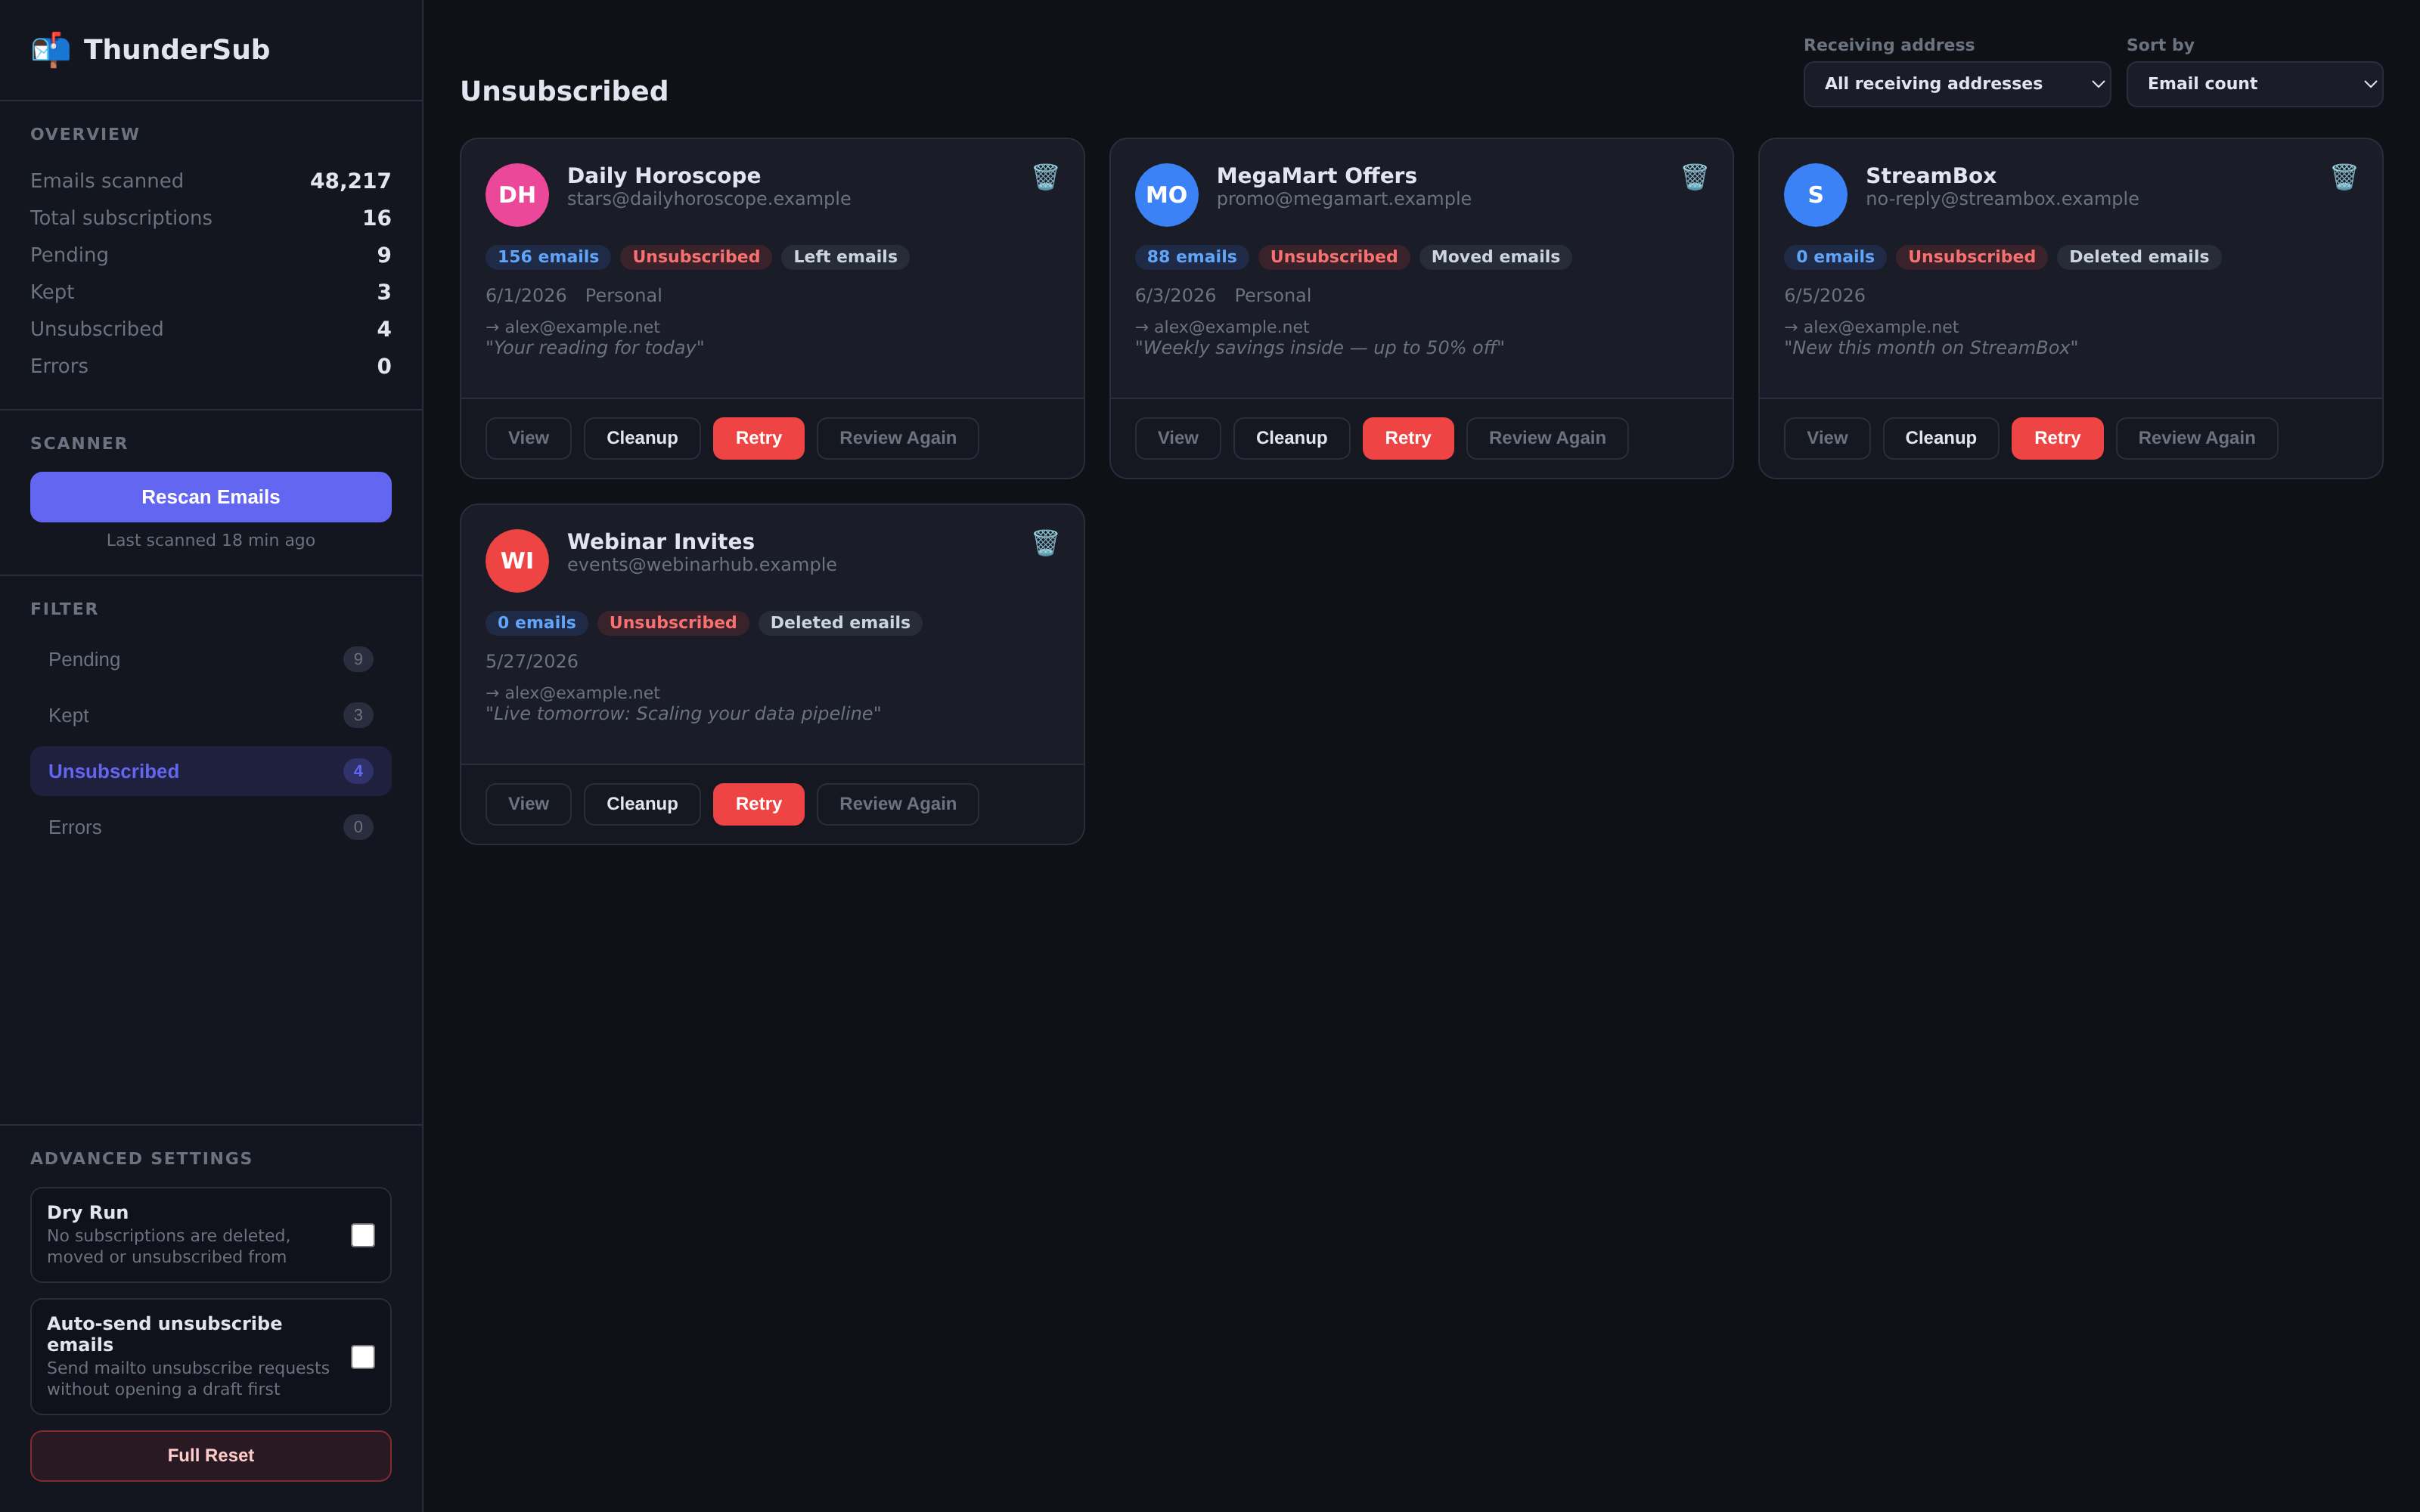
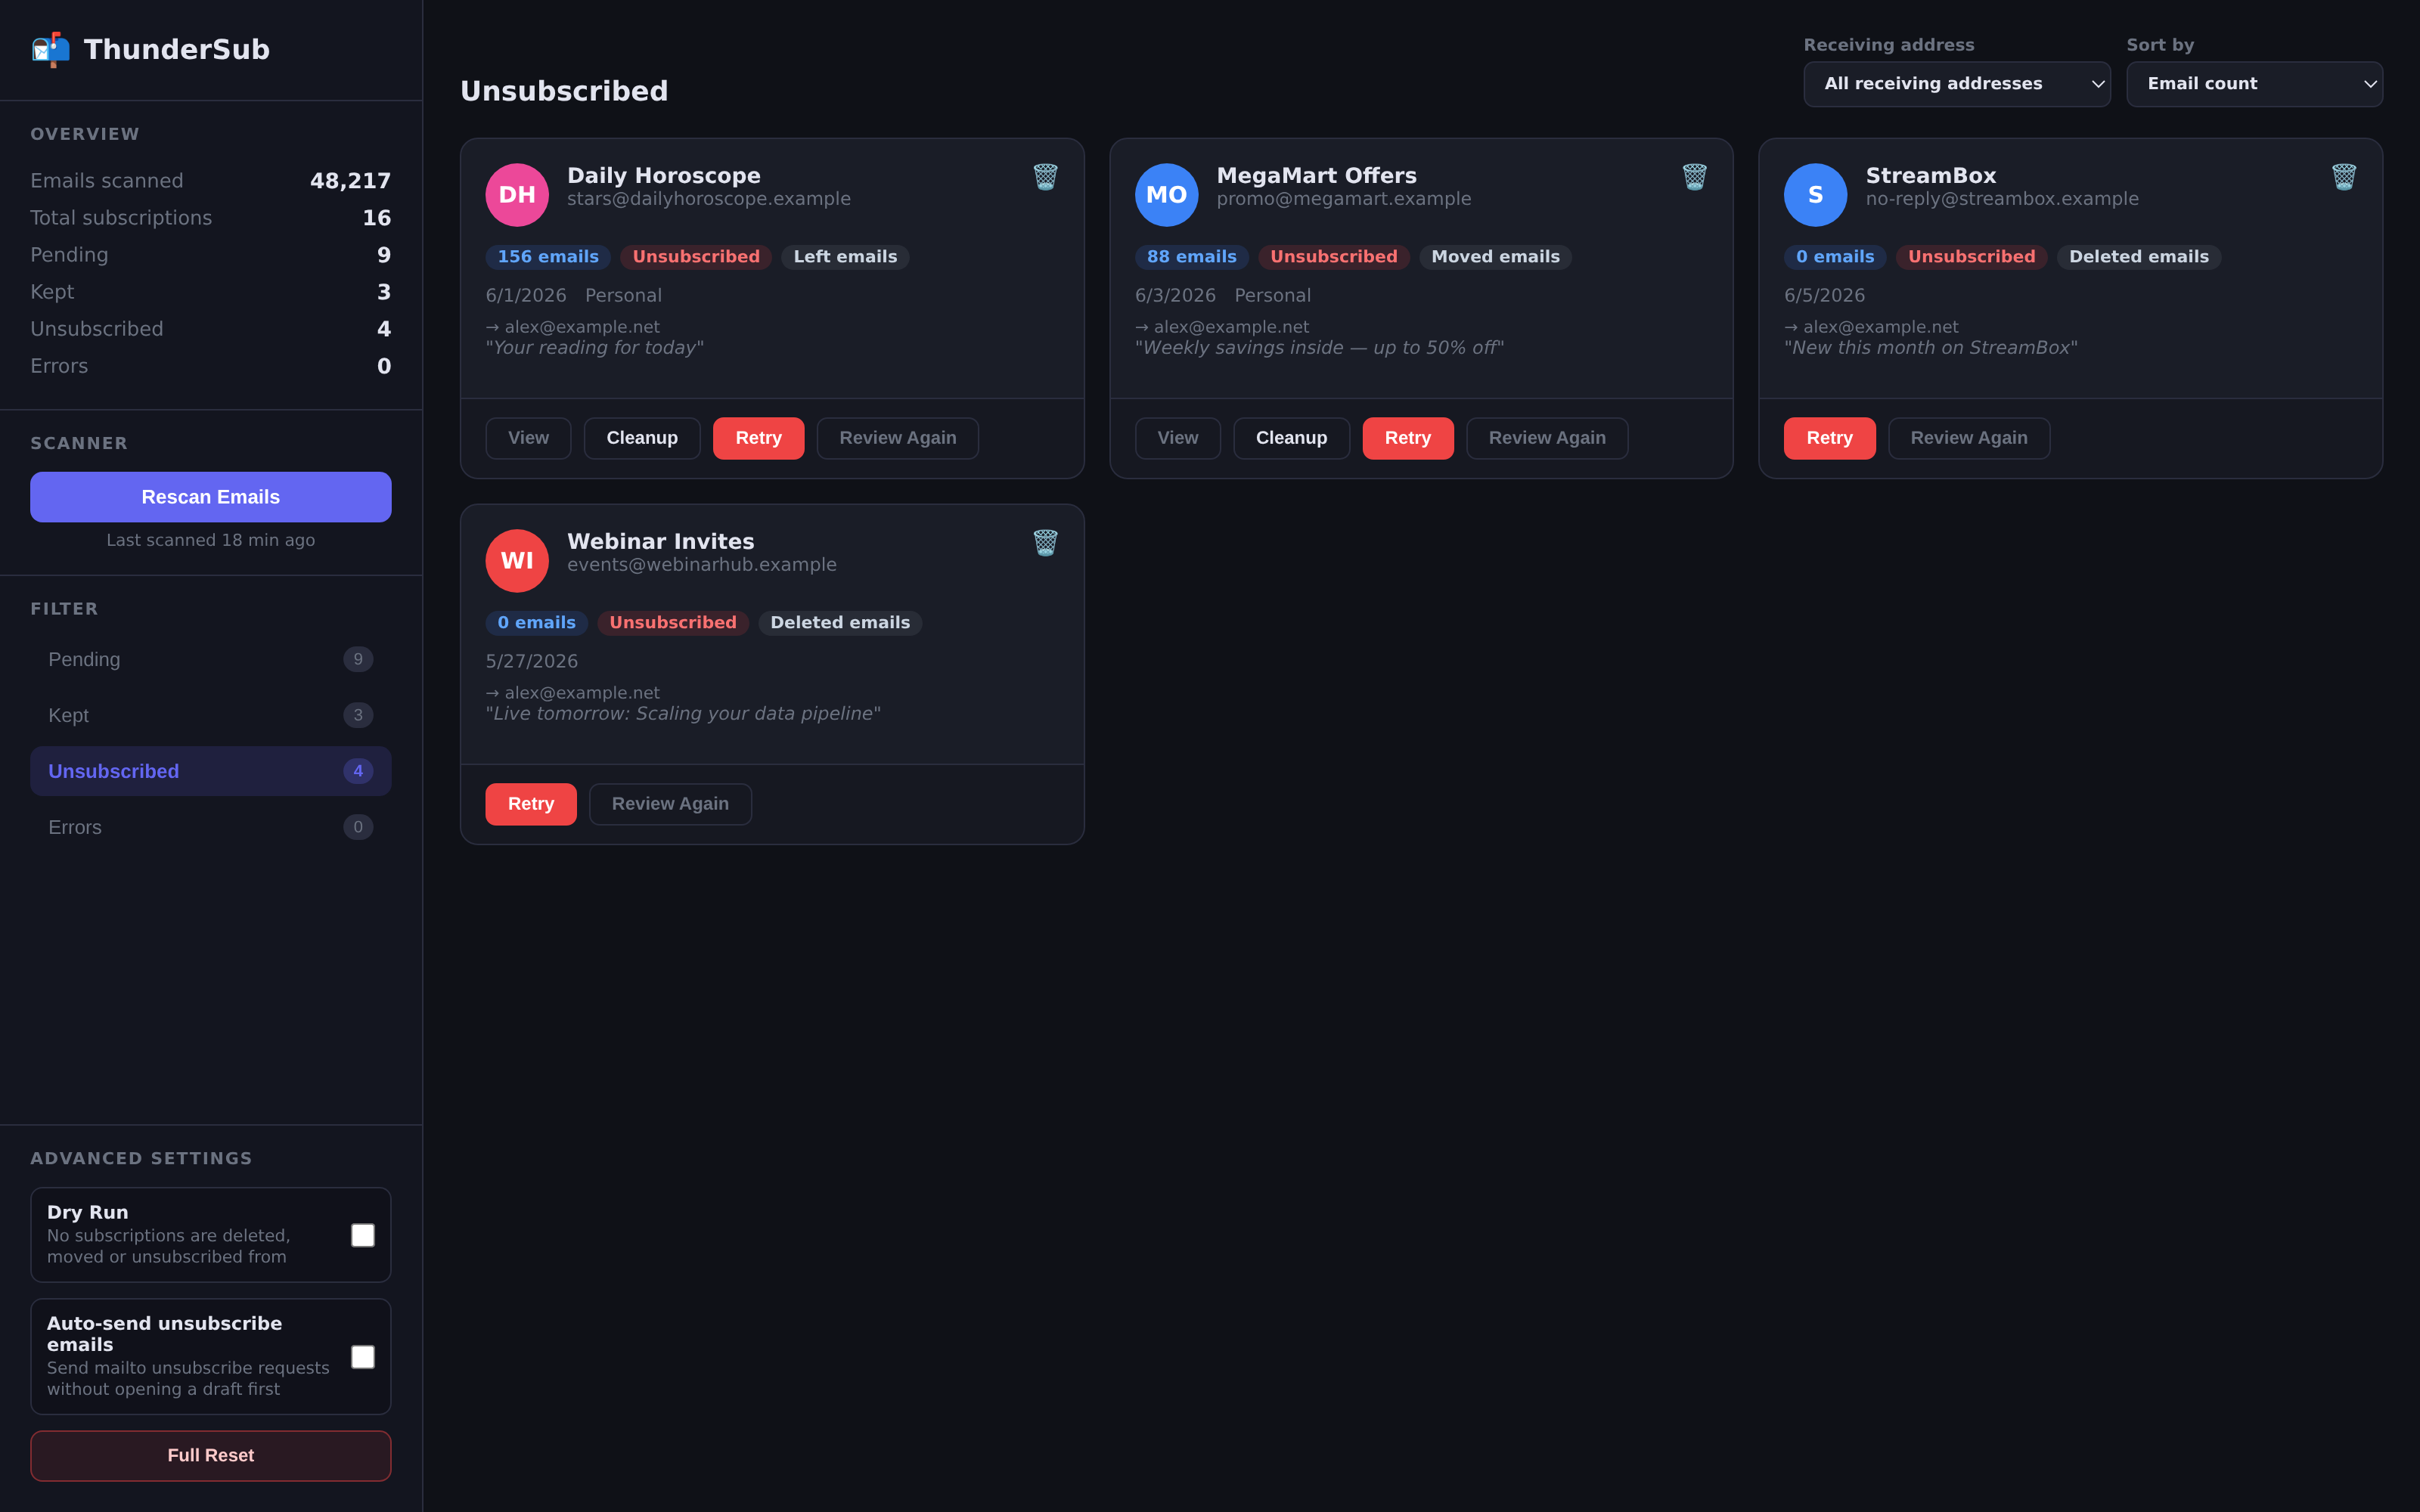
Hide message actions for empty subscriptions, filter folder tree after create
View/Cleanup only render when stored messages remain — with none left
the cleanup modal offered a move with an empty destination tree. The
post-create folder tree refresh now reuses the same relevant-account
filter as the initial render instead of showing all mailboxes.

Changed region(s): [[0.1875, 0.496, 0.4062, 0.558], [0.7188, 0.279, 0.9375, 0.31]]

diff --git a/tab/tab.js b/tab/tab.js
@@ -247,6 +247,10 @@ function renderCards(subs) {
 
 // ── Message group helpers ─────────────────────────────────────────────────────
 
+function subHasMessages(s) {
+  return (s.messageGroups || []).some(g => (g.messageIds || []).length > 0);
+}
+
 function groupsByAccount(messageGroups) {
   // Returns: { accountName: { folderName: count, ... }, ... }
   const result = {};
@@ -346,18 +350,12 @@ function buildActions(s) {
     <button class="btn btn-keep js-unkeep" title="Move this subscription back to Pending for review." ${attrs}>Review Again</button>`;
   }
 
-  if (s.decision === 'unsubscribed') {
-    return `
+  if (s.decision === 'unsubscribed' || s.decision === 'error') {
+    // View and Cleanup act on stored messages; with none left they can only fail.
+    const messageButtons = subHasMessages(s) ? `
     <button class="btn btn-view js-view" ${attrs}>View</button>
-    <button class="btn btn-outline js-cleanup" ${attrs}>Cleanup</button>
-    <button class="btn btn-unsub js-retry" ${attrs}>Retry</button>
-    <button class="btn btn-keep js-reset-pending" title="Move this subscription back to Pending for review." ${attrs}>Review Again</button>`;
-  }
-
-  if (s.decision === 'error') {
-    return `
-    <button class="btn btn-view js-view" ${attrs}>View</button>
-    <button class="btn btn-outline js-cleanup" ${attrs}>Cleanup</button>
+    <button class="btn btn-outline js-cleanup" ${attrs}>Cleanup</button>` : '';
+    return `${messageButtons}
     <button class="btn btn-unsub js-retry" ${attrs}>Retry</button>
     <button class="btn btn-keep js-reset-pending" title="Move this subscription back to Pending for review." ${attrs}>Review Again</button>`;
   }
@@ -676,14 +674,18 @@ async function onDisposeChange() {
         return;
       }
     }
-    // Filter tree to only accounts relevant to this subscription
-    const sub = subsCache.find(s => s.senderEmail === modalSenderEmail && s.recipientAddress === modalRecipientAddress);
-    const relevantAccounts = new Set((sub?.messageGroups || []).map(g => g.accountName));
-    const filtered = folderTreeCache.filter(a => relevantAccounts.has(a.accountName));
-    renderFolderTree(filtered);
+    renderRelevantFolderTree();
   } else {
     destWrap.style.display = 'none';
   }
+}
+
+// Render the destination tree showing only accounts this subscription has
+// messages in — a move can't target an unrelated mailbox.
+function renderRelevantFolderTree() {
+  const sub = subsCache.find(s => s.senderEmail === modalSenderEmail && s.recipientAddress === modalRecipientAddress);
+  const relevantAccounts = new Set((sub?.messageGroups || []).map(g => g.accountName));
+  renderFolderTree((folderTreeCache || []).filter(a => relevantAccounts.has(a.accountName)));
 }
 
 function renderFolderTree(tree) {
@@ -749,7 +751,7 @@ async function createNewFolder() {
     document.getElementById('modal-new-folder-form').style.display = 'none';
     // Refresh tree and auto-select new folder
     folderTreeCache = await bg('getFolderTree');
-    renderFolderTree(folderTreeCache);
+    renderRelevantFolderTree();
     // Select the new folder
     const newRadio = document.querySelector(`input[name="dest-folder"][value="${CSS.escape(result.id)}"]`);
     if (newRadio) newRadio.checked = true;